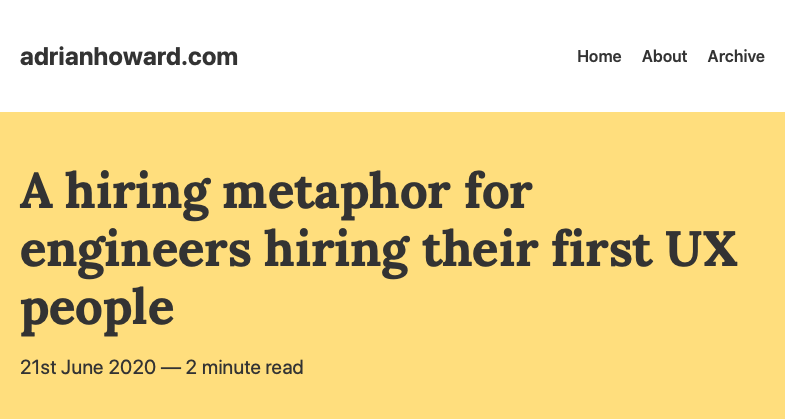
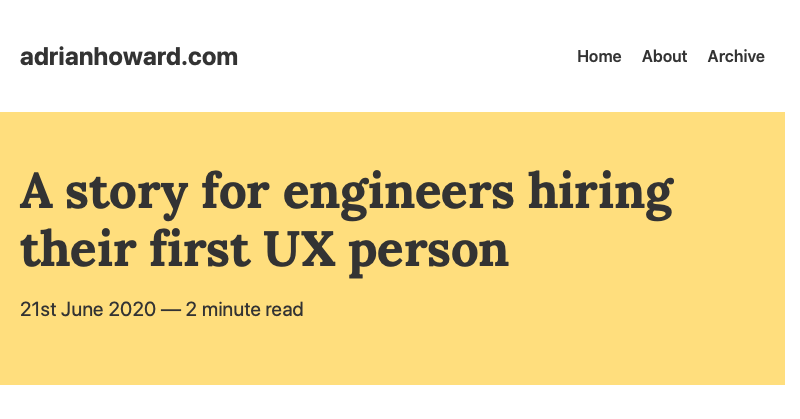
Fixed spewling mistake and made title less shitty

Changed region(s): [[0.0, 0.4033, 0.9375, 0.6826], [0.0, 0.8377, 1.0, 1.0], [0.0312, 0.6826, 0.4062, 0.8067]]

diff --git a/src/posts/hiring-your-first-uxer.md b/src/posts/hiring-your-first-uxer.md
@@ -1,5 +1,5 @@
 ---
-title:  A hiring metaphor for engineers hiring their first UX people
+title:  A story for engineers hiring their first UX person
 date: '2020-06-21'
 socialImage: "/images/hiring-your-first-uxer/card.png"
 metaDesc: This is a metaphor I use a lot when talking with engineers, or ex-engineers, when they're hiring UX people — often their first UX people.
@@ -10,14 +10,14 @@ tags:
     - Testing
     - Quality
     - Debt
-    - Stories
+    - Story
 ---
 
 This is a metaphor I use a lot when talking with engineers, or ex-engineers, when they're hiring UX people — often their first UX people. So I suppose writing it down would be a good move so other people can use / criticise it :-)
 
 ---
 
-Imagine I’m a technical CEO in a small company that’s gone a fair way with their product. It's got traction, but our testing practices are poor trending towards non-existence.
+Imagine I’m a technical CEO in a small company that’s gone a fair way with their product. It's got traction, but our testing practices are poor trending towards non-existent.
 
 We’re not good at automated testing. We don’t have any automated integration tests. We don’t have a continual integration server, let alone anything close to continual delivery. We have this kinda-sorta check list that we run through and call it user acceptance testing — but we’re still shipping stuff with lots of defects. 
 
